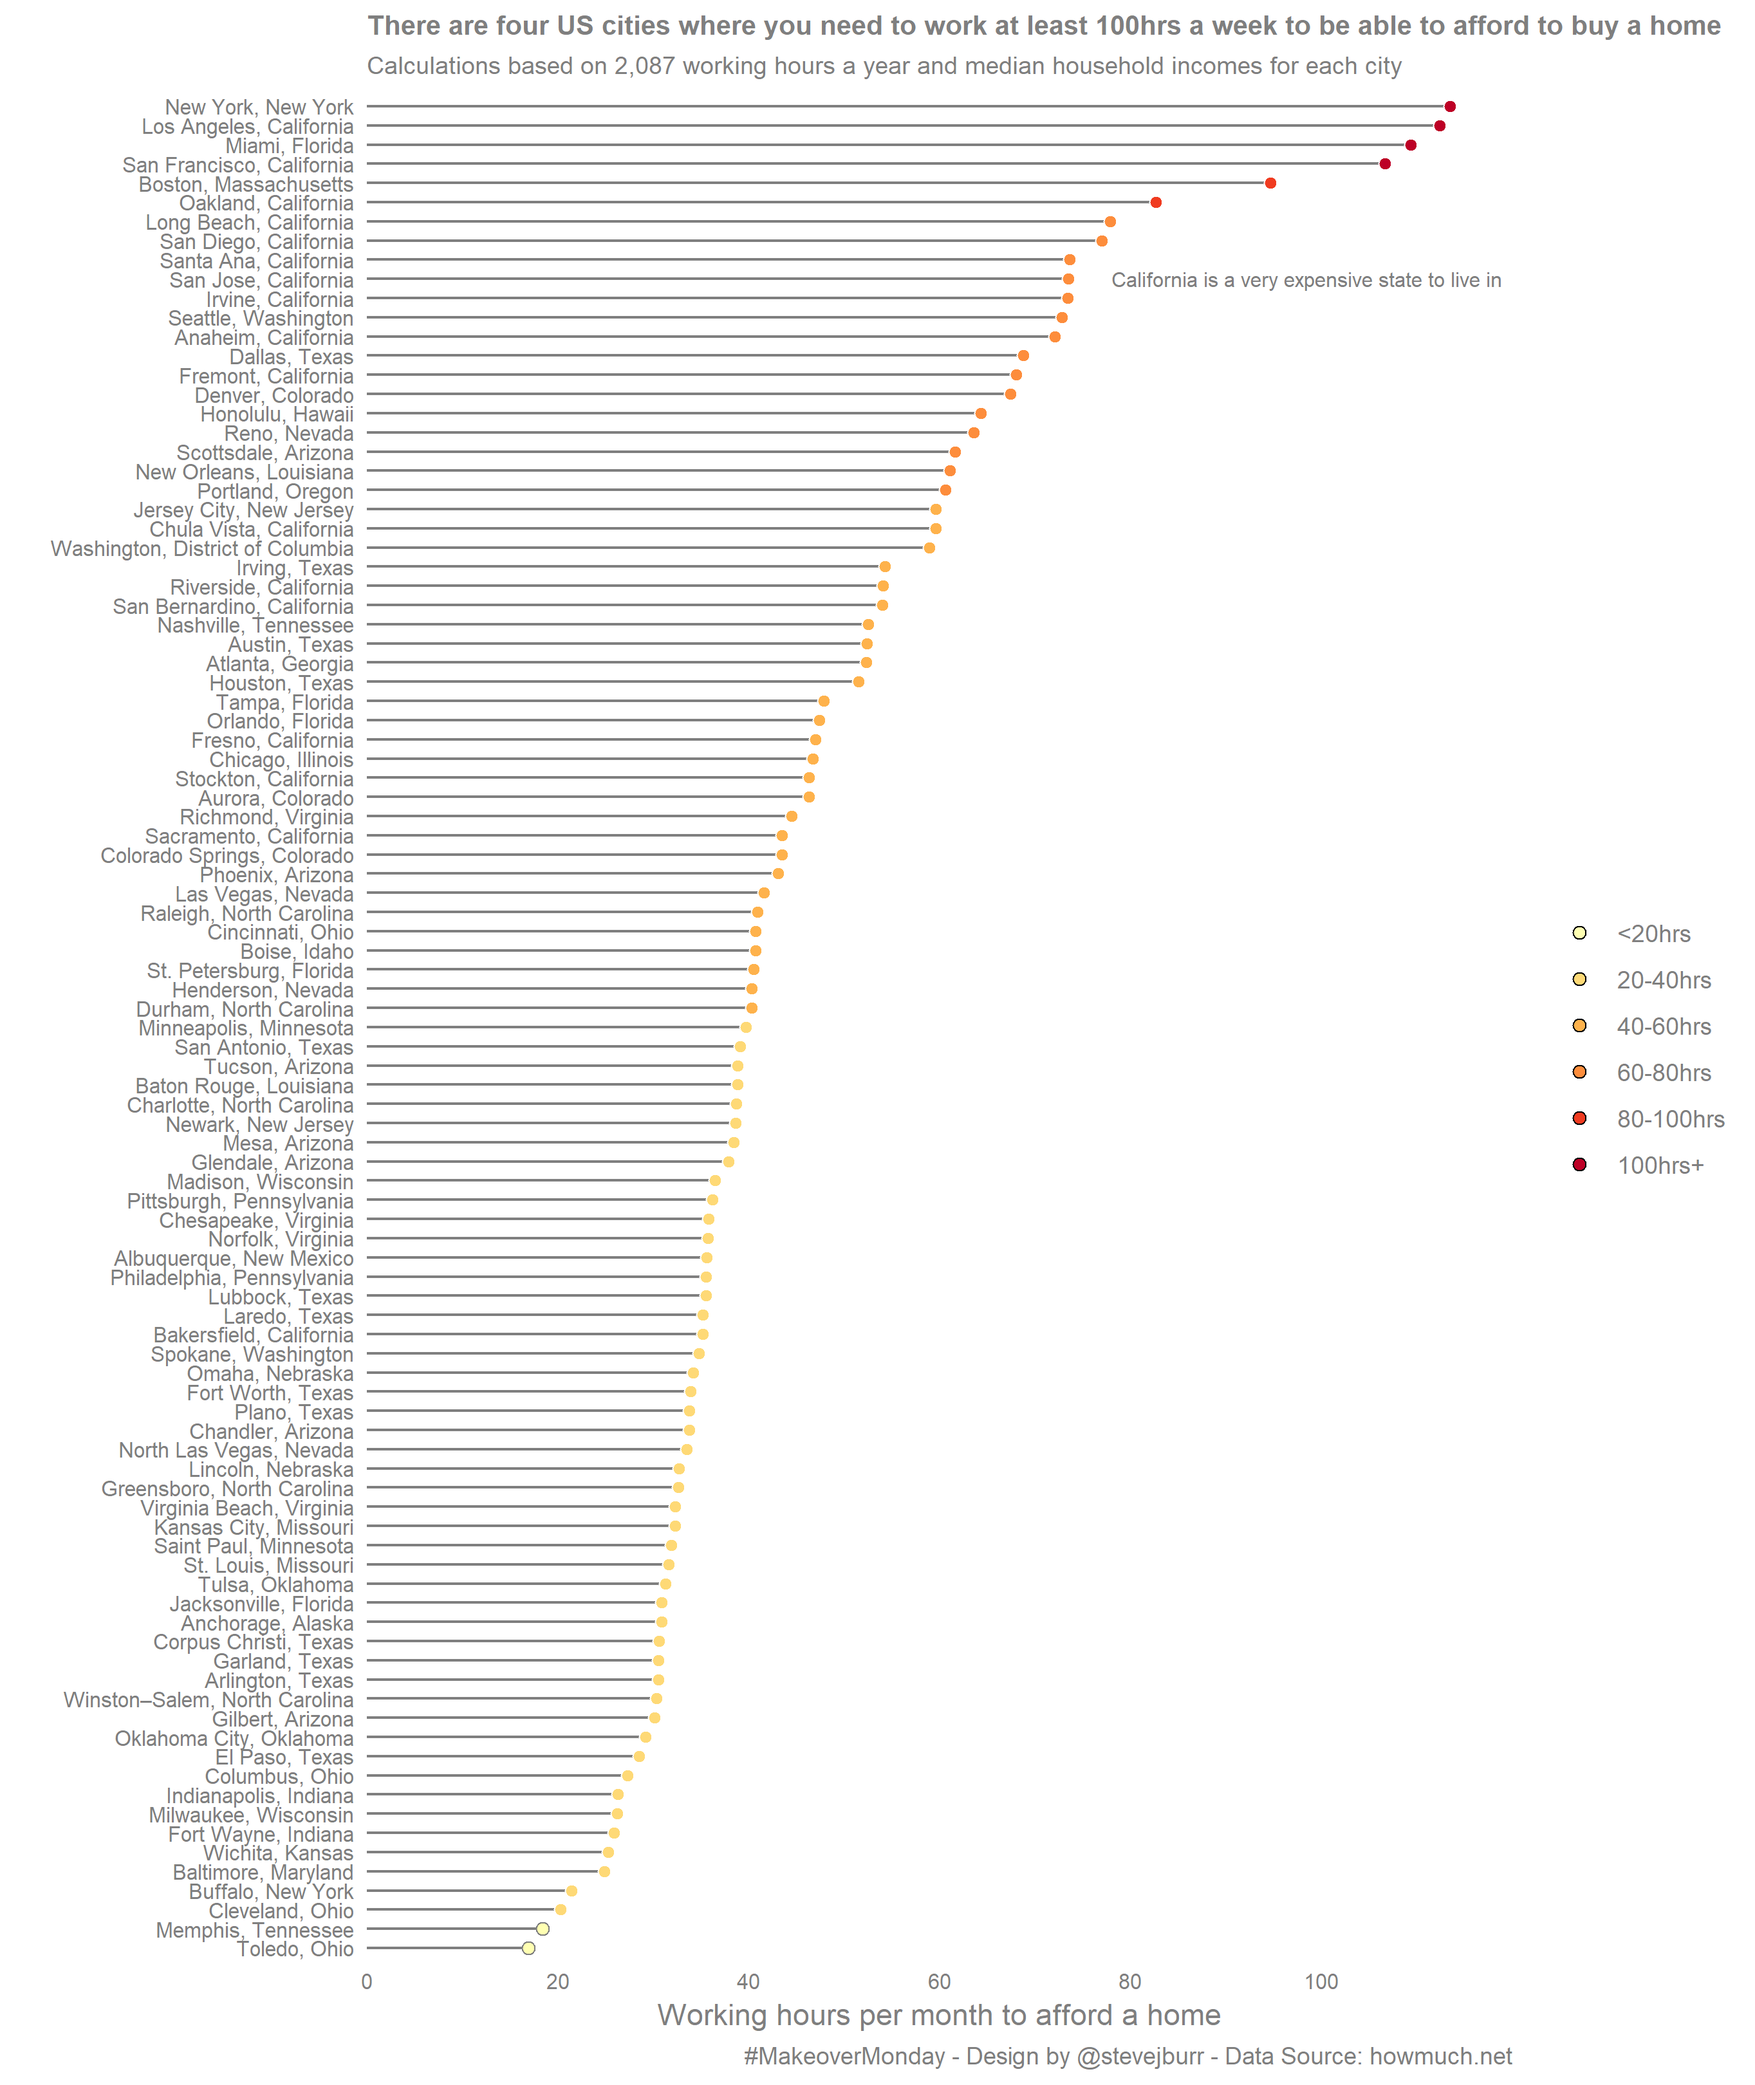
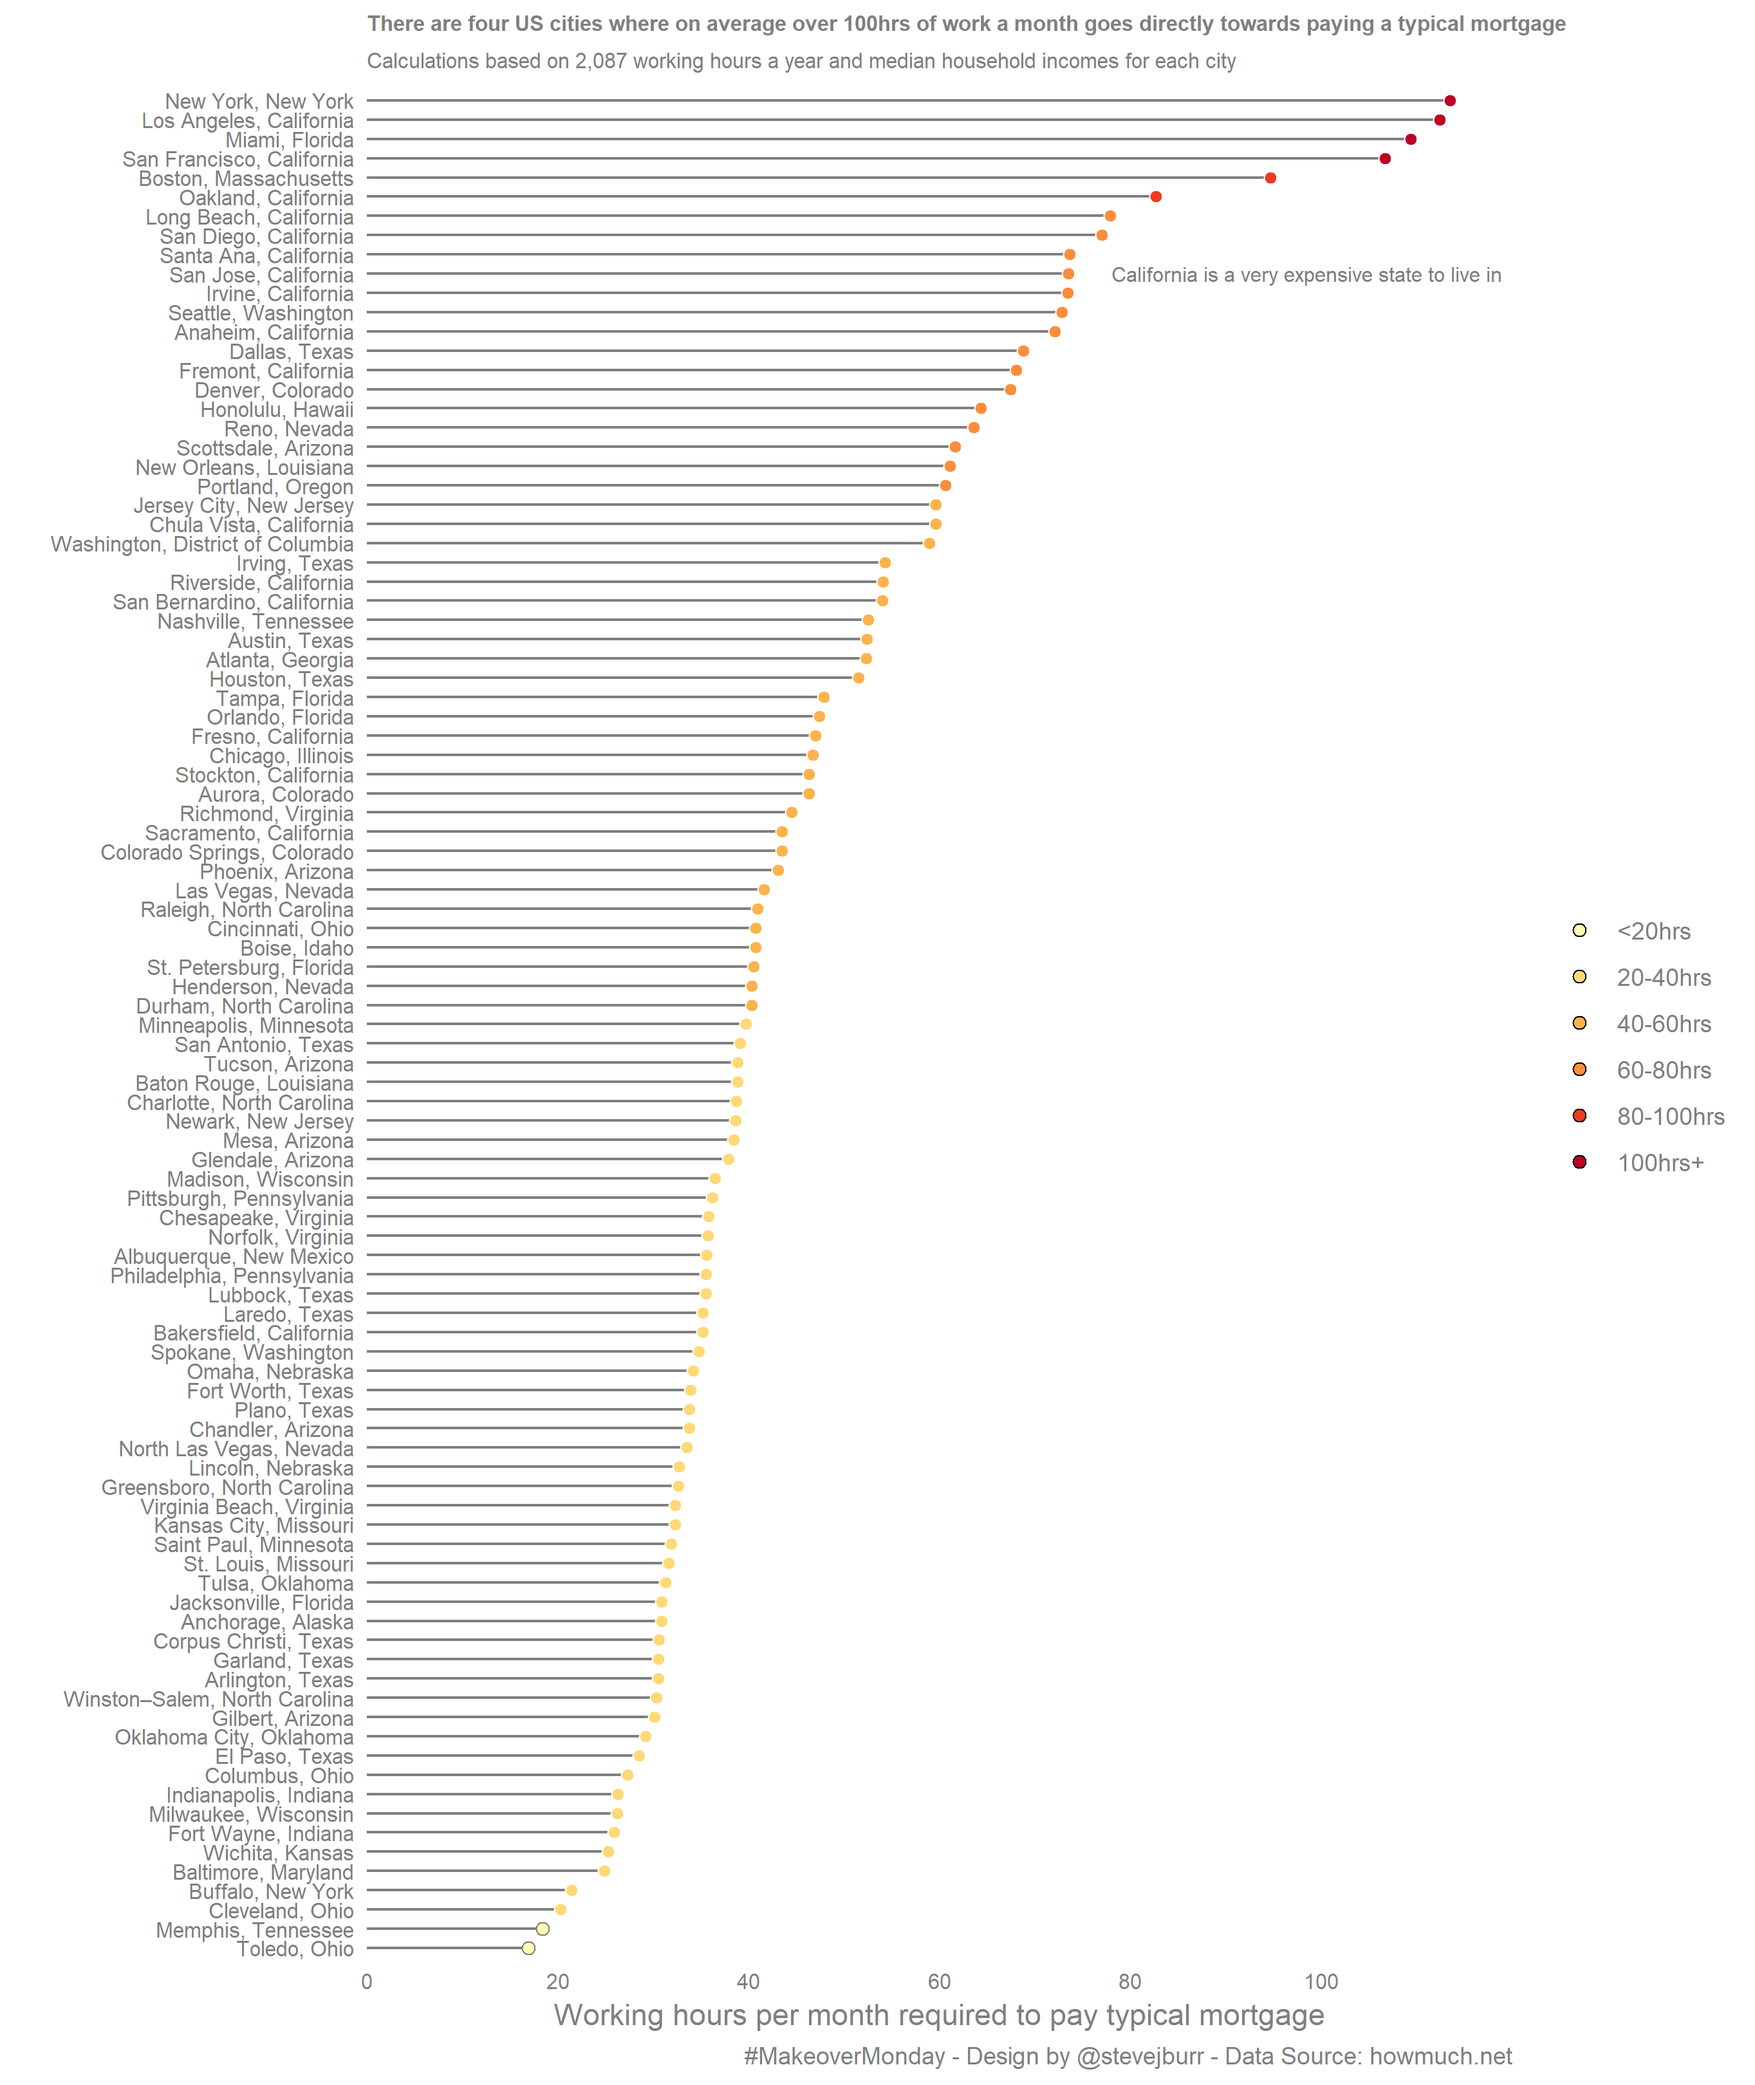
Added 12/11/2018 MakeoverMonday post

diff --git a/content/post/2018-11-19-makeovermonday-12-11-2018.md b/content/post/2018-11-19-makeovermonday-12-11-2018.md
@@ -1,0 +1,40 @@
+---
+title: MakeoverMonday 12-11-2018
+author: Steve Burr
+date: '2018-11-19'
+slug: makeovermonday-12-11-2018
+categories:
+  - DataViz
+  - ggplot2
+  - MakeoverMonday
+  - R
+tags: []
+---
+
+The #MakeoverMonday topic for this week was diversity amongst tech companies. The original visualisation was by [David McCandless](https://informationisbeautiful.net/visualizations/diversity-in-tech/) and takes the form of a number of bar charts:
+
+![](/post/2018-11-19-makeovermonday-12-11-2018_files/1276_Diversity-In-Tech.png)
+
+What do I like about the original?
+
+- It's very nicely designed, it looks really clean.
+- Using the company logos is a great touch which makes it easier to recognise what the bars represent.
+- The inclusion of benchmarks like the US population and Congress adds useful context for interpretting the visualisation.
+
+What don't I like about the original?
+
+- I'm not sure that segmenting the bars at 50% or 25% intervals is that helpful, though it looks nice to the eye.
+- I think it would be worth trying to make it easier to visually compare each company to the US population benchmark.
+- I'm not sure of the purpose of the light grey bars in the background, I find them a bit distracting even though they do look nice.
+
+I came up with a similar approach, using something close to a bullet chart to show the data:
+
+![](/post/2018-11-19-makeovermonday-12-11-2018_files/plot.png)
+
+- I've put all the non-tech company figures at the top to provide a broader perspective straight away.
+- I've used an empty bar with a grey outline to show the US population benchmark throughout, the idea being to make it really clear where there is a under / over representation.
+- I decided to cut down on the number of categories, only showing one of % Female/% Male and focussing on the largest ethnicity groups to make it easier to read. I think another seperate visualisation is needed to look at the smaller ethnic groups.
+
+My version definitely looks less polished than the original, and if I were to spend more time it would be on this aspect. However, I think it is more effectively showing me the information that I want to know than the original.
+
+The dataset can be found [on data.world](https://data.world/makeovermonday/2018w46) and my code is on [my Github](https://github.com/stevejburr/makeovermonday/tree/master/12112018).

diff --git a/content/post/2018-11-19-makeovermonday-19-11-2018.md b/content/post/2018-11-19-makeovermonday-19-11-2018.md
@@ -34,3 +34,5 @@ I decided to just do a simple dot / lolipop chart, with colours to show the numb
 I originally had coloured the lines as well as the dots, but couldn't get this to work with my chosen colour pallette. I think this is a better thing to do, but didn't have enough time to come up with a good looking set of colours which also worked well for thin lines.
 
 One key thing which is lost with my approach is the clear positioning of the cities. If you know the names / where the states are then you can ultimately get to this but the pattern of expensive costs vs cheaper interiors is less visually clear.
+
+The dataset can be found [on data.world](https://data.world/makeovermonday/2018w47) and my code is on [my Github](https://github.com/stevejburr/makeovermonday/tree/master/19112018).
